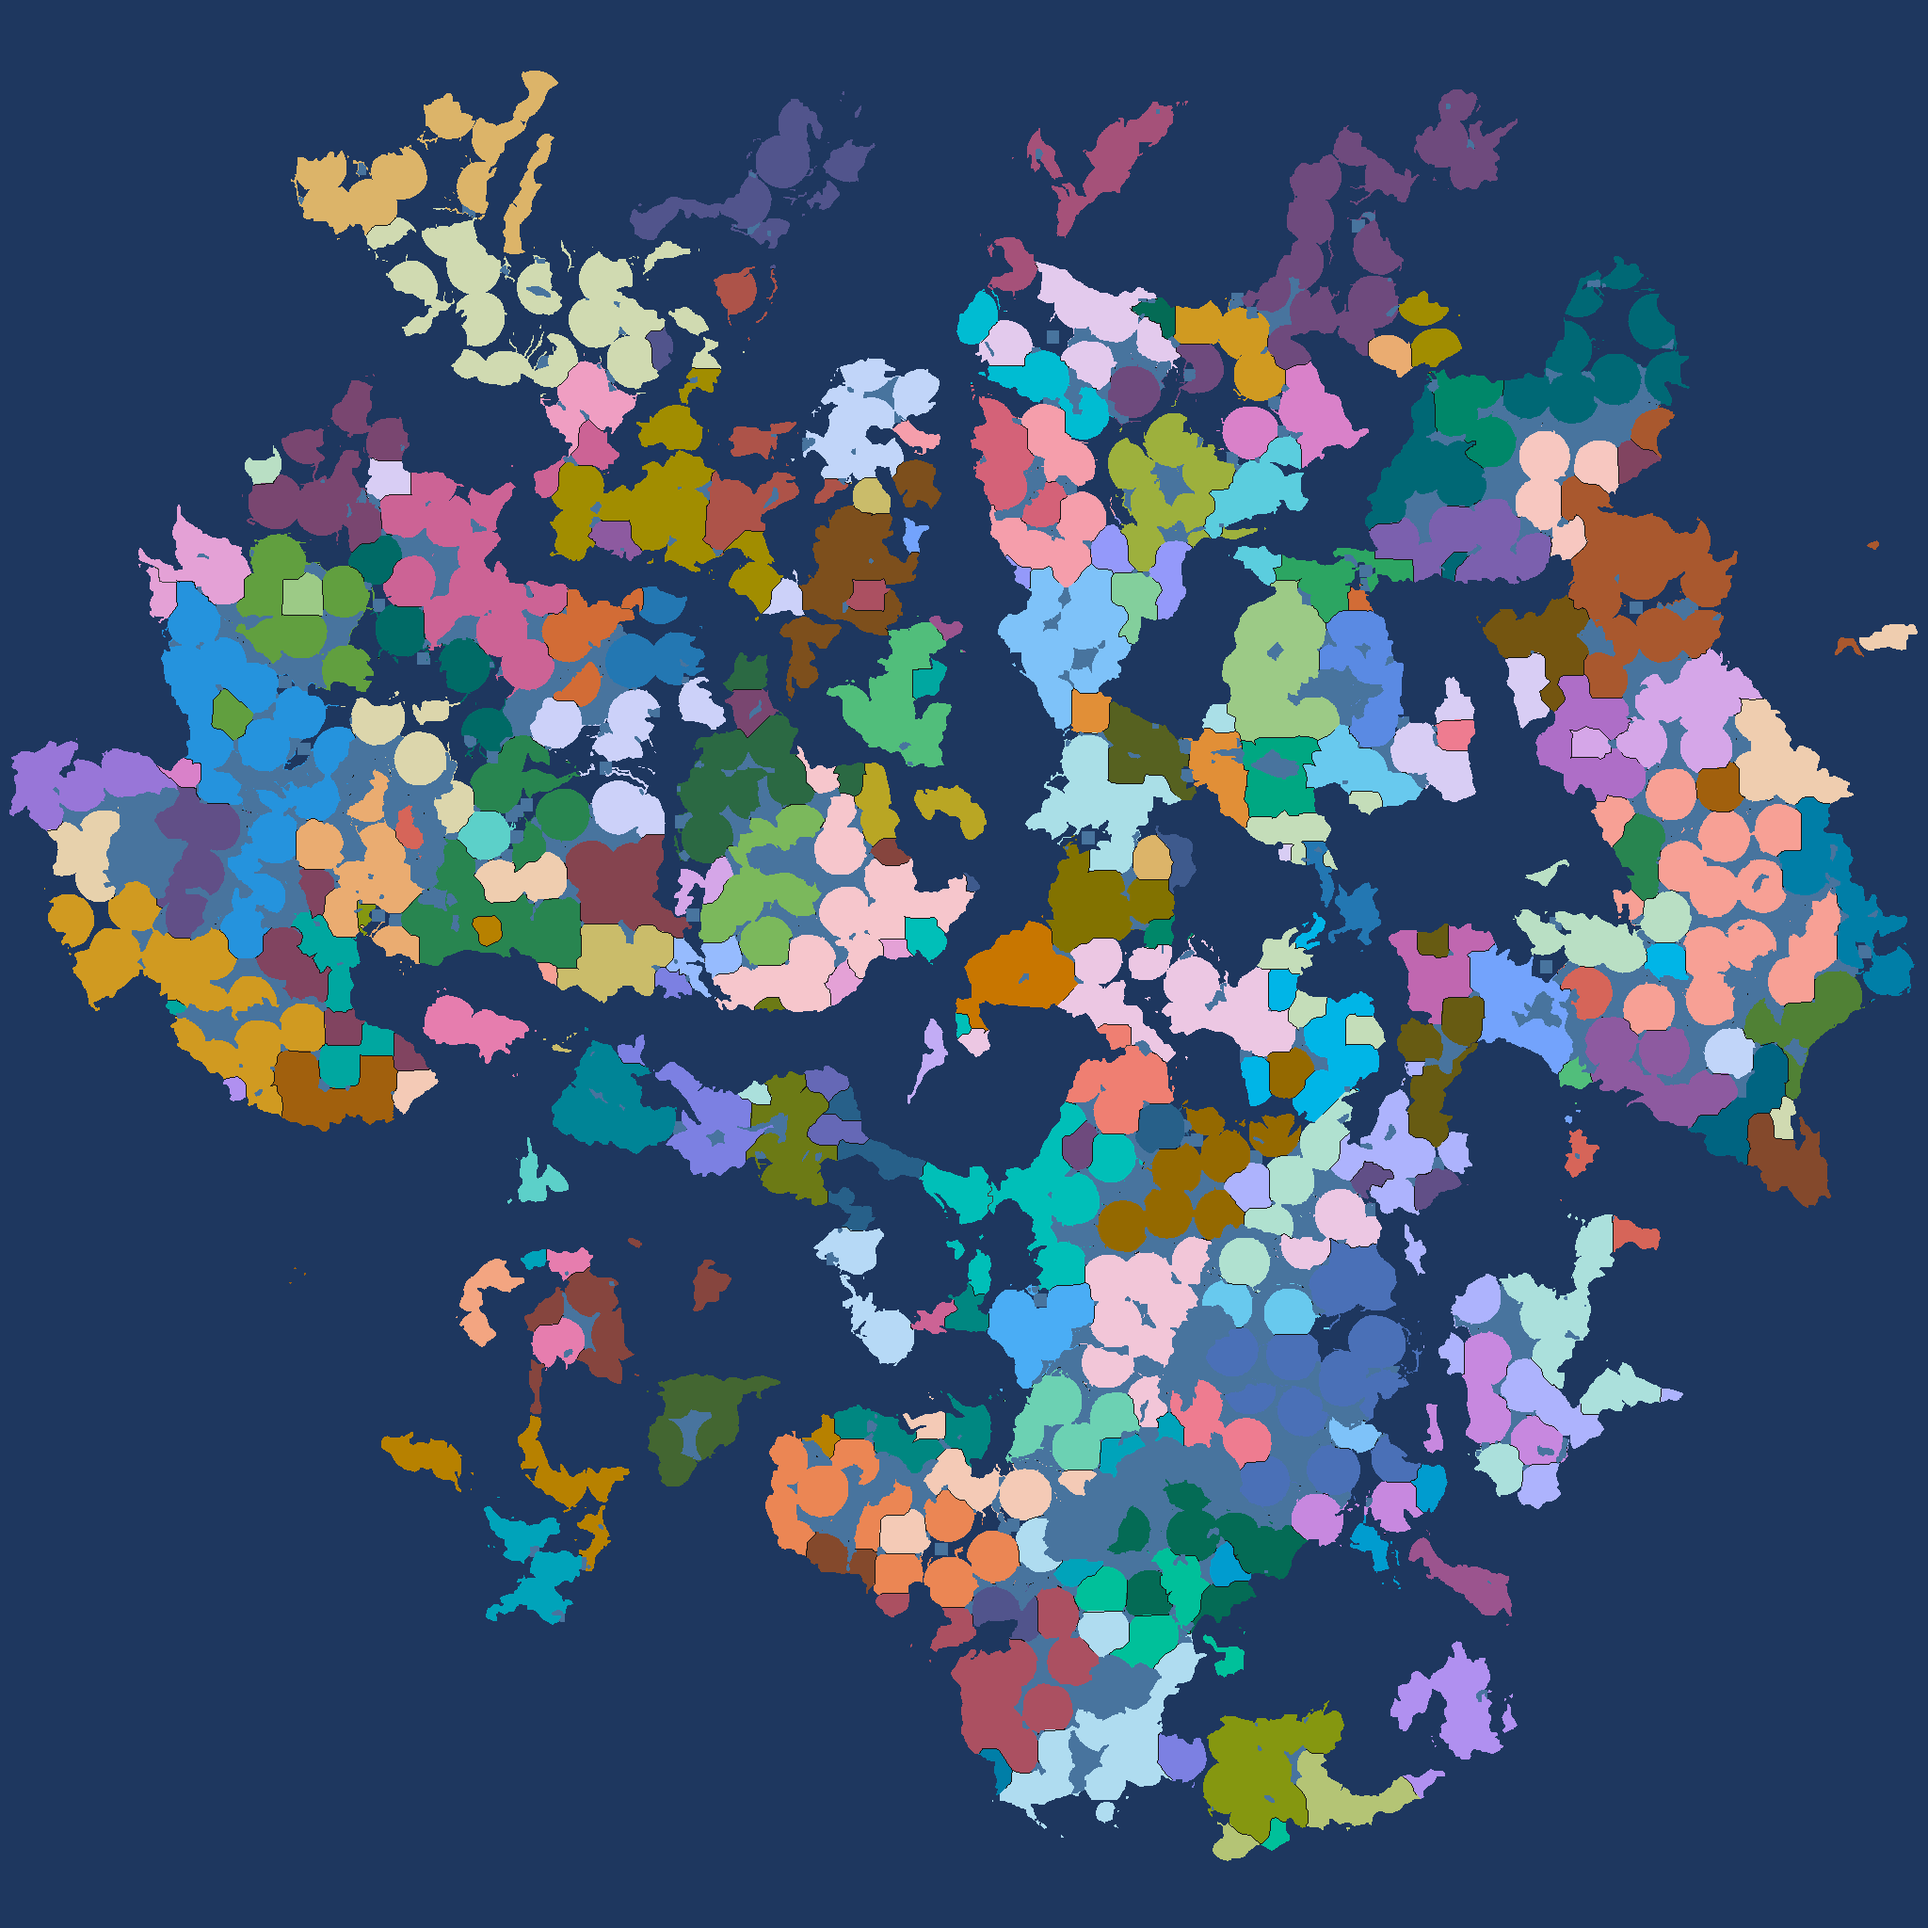
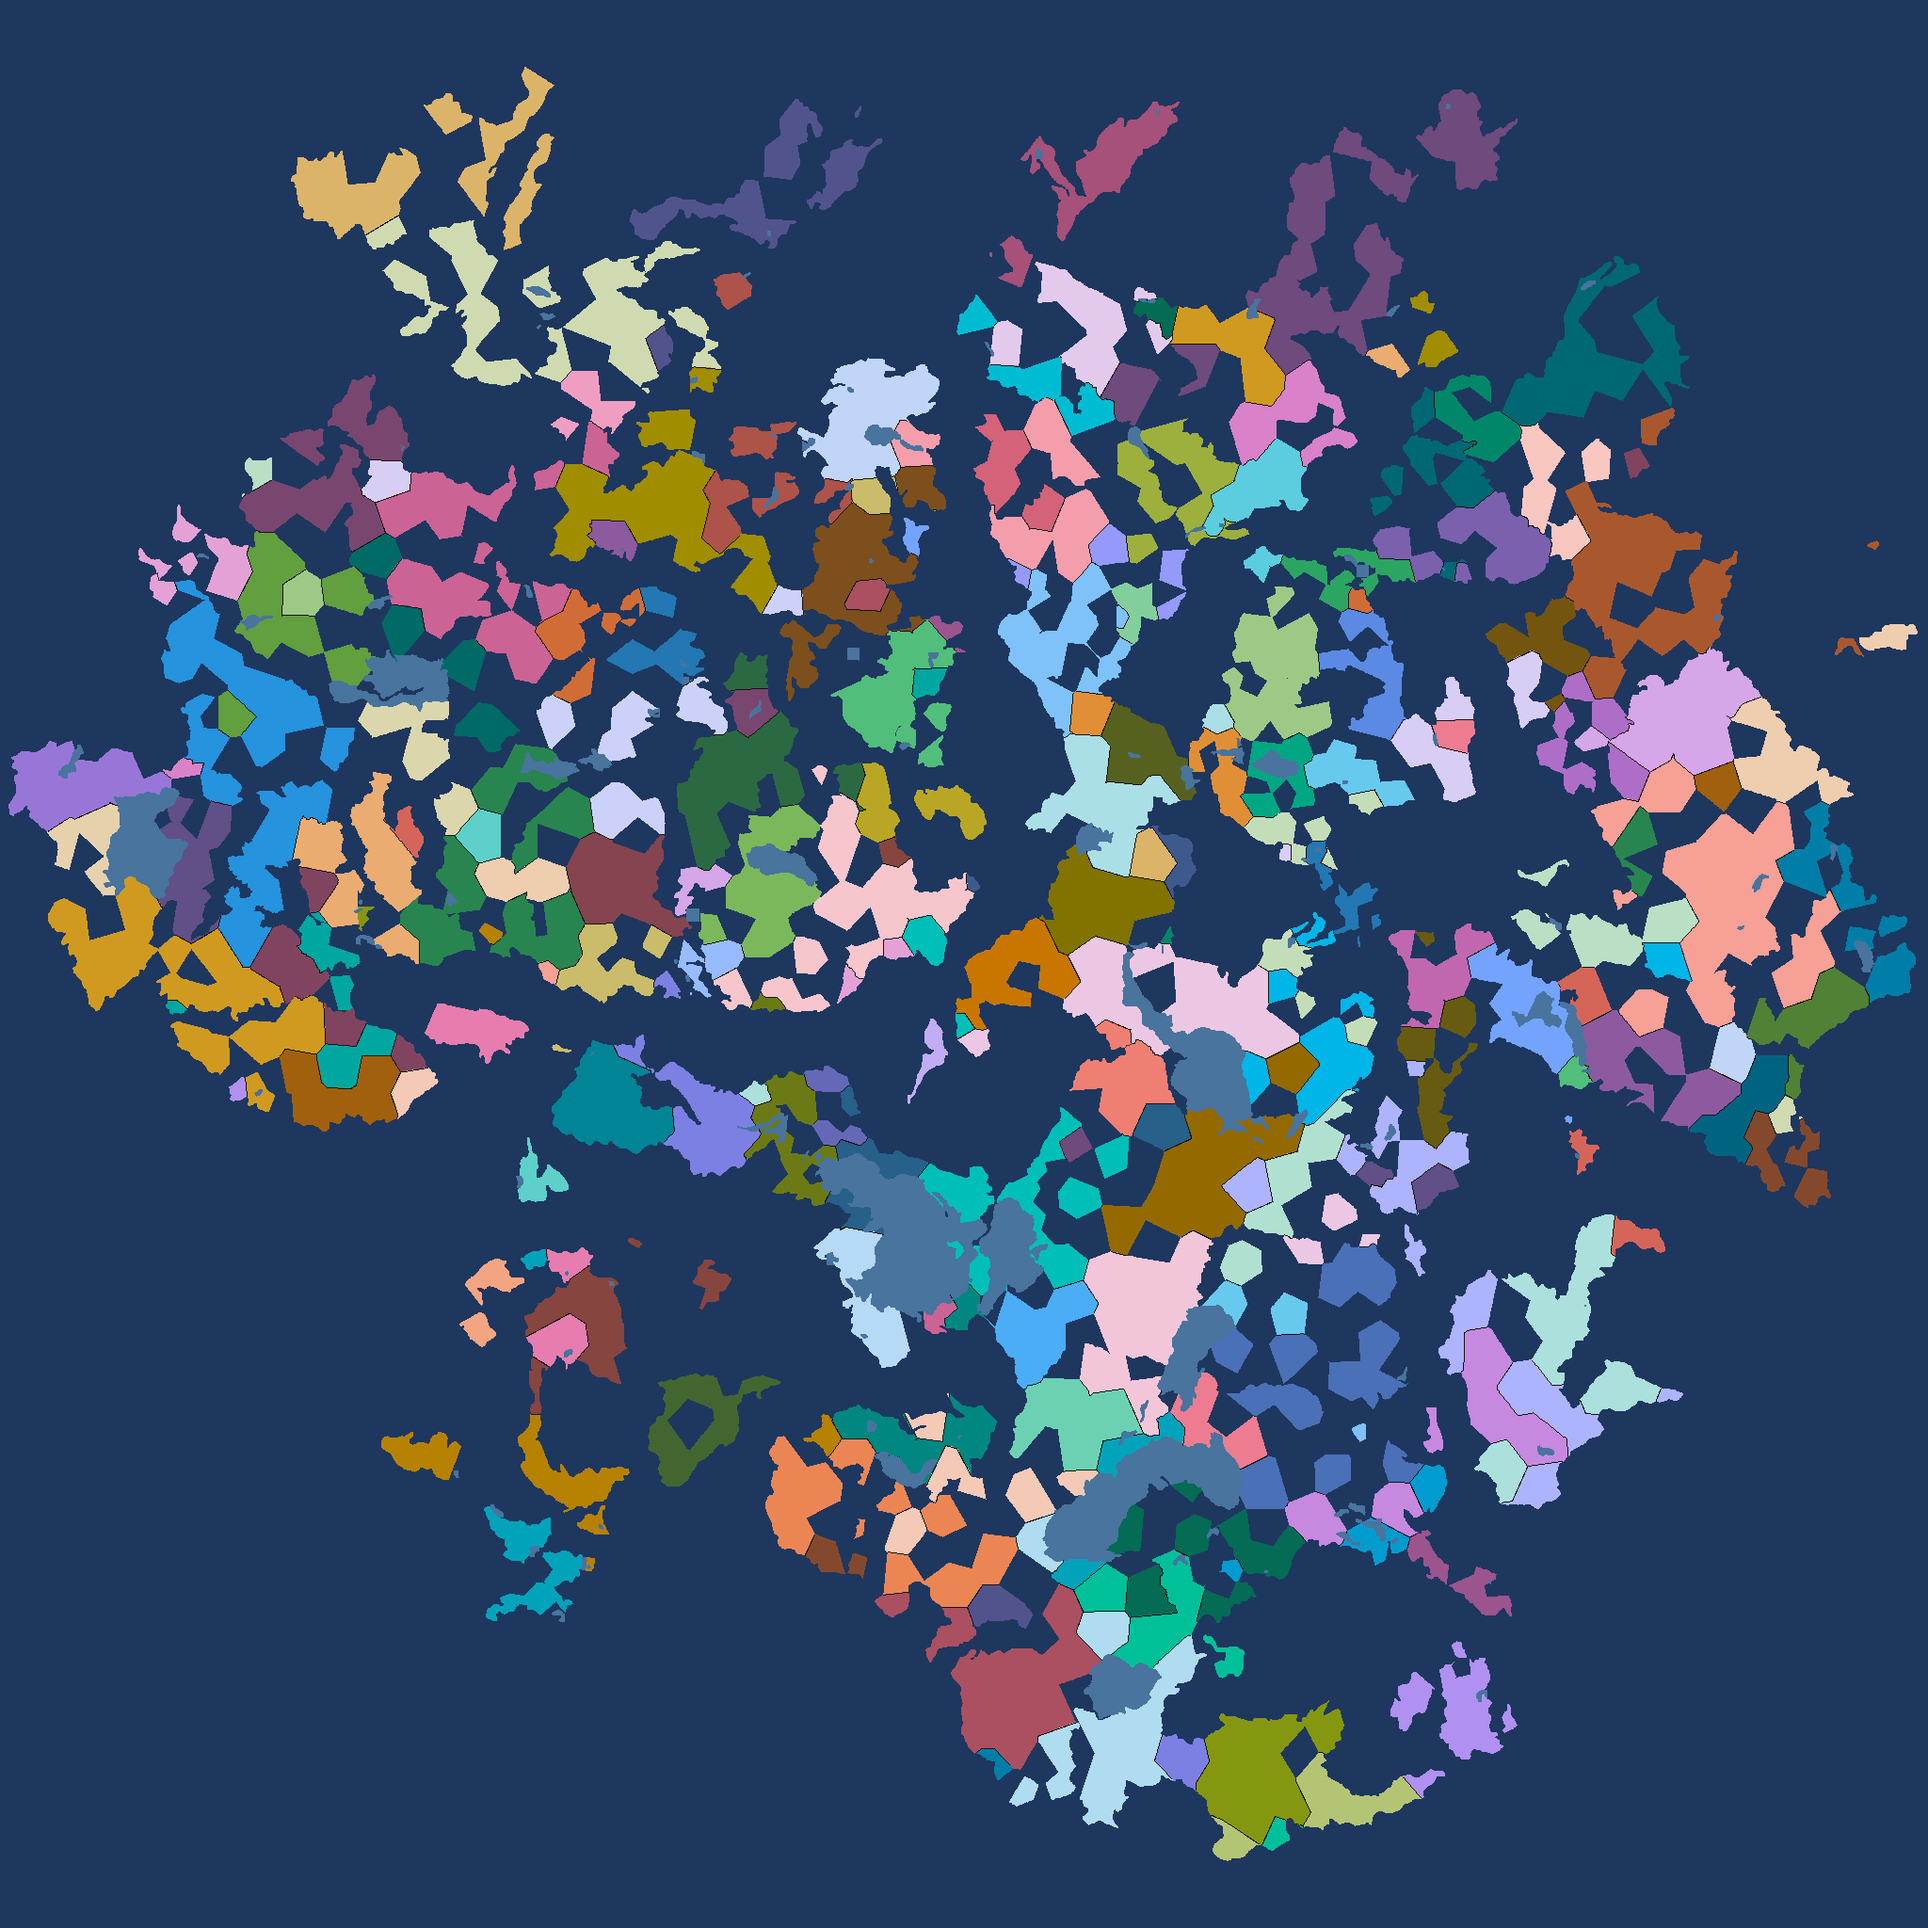
docs(worldgen): D3/D4 弧拓扑与 E1/E2 blob 预览按 refined 1693 城块/新分档参数重出——弧干跑 14.4 万弧、blob 三档重渲，图集与交接档同步（数据落地仍随 §五）

diff --git a/docs/项目/交接/世界模型整合-进度与交接.md b/docs/项目/交接/世界模型整合-进度与交接.md
@@ -9,7 +9,7 @@
 
 ## 快速恢复（新会话/压缩上下文后从这里开始）
 
-- **当前状态（V2 世界重生成链落地、图像验收轮）**：M1 统一契约已完成（对账 §四.1）；V2 世界重生成全链落地——**176 政权 / 1036 城 + 657 规模 0 填充 = 1693 城块**铺满陆地（城块图灰 0.005%、群岛跨水染色根治、圆块主张盘定稿 ×1.3，定稿模型与实测见 §五）。门禁：run_unit 68/68；run_all 36 通过 / 4 失败 / 6 悬置（4 个集成校准待办见 §五）。**下一步 = 创始人过验收图（`F:\VSCode\game-2\temp\v2_rebake\`，A-E 共 20 张）→ 按 §五剩余工作清单收口（I2b 重测 / 3 集成测试 / blob 重烤 / 属性回写）→ 收线合并 → M2 世界账面 tick**。**待创始人裁决**：城市档位阈值双口径统一（§四.1 末条）。
+- **当前状态（V2 世界重生成链落地、图像验收轮）**：M1 统一契约已完成（对账 §四.1）；V2 世界重生成全链落地——**176 政权 / 1036 城 + 657 规模 0 填充 = 1693 城块**铺满陆地（城块图灰 0.005%、群岛跨水染色根治、圆块主张盘定稿 ×1.3，定稿模型与实测见 §五）。门禁：run_unit 68/68；run_all 36 通过 / 4 失败 / 6 悬置（4 个集成校准待办见 §五）。**下一步 = 创始人过验收图（`F:\VSCode\game-2\temp\v2_rebake\`，A-E 共 19 张）→ 按 §五剩余工作清单收口（I2b 重测 / 3 集成测试 / blob 重烤 / 属性回写）→ 收线合并 → M2 世界账面 tick**。**待创始人裁决**：城市档位阈值双口径统一（§四.1 末条）。
 - **恢复方式**：创始人说「继续 世界模型整合」→读本档→当前批次 = V2 验收收口（过图后按 §五剩余工作清单；收线合并后进 M2）。开工先按 §三 建/复用 worktree（`.temp/world-model`，分支 `agent/world-model`；submodule 初始化与水陆真值三件复制见快速恢复段末注）。
 - **协作纪律（本轮对齐中创始人明确的方法论，后续会话必须遵守）**：
   1. **先对齐再落档再实施**——设计歧义逐轮提问对齐，不由 AI 单方面改文档"用一个 AI 说法覆盖另一个 AI 说法"；
@@ -154,12 +154,12 @@
 | [`fields_preview_resources_2048.png`](../../images/v2_rebake/fields_preview_resources_2048.png) | 资源丰度场叠图（FBM 空间自相关） |
 | [`fields_preview_attack_cost_2048.png`](../../images/v2_rebake/fields_preview_attack_cost_2048.png) | 进攻成本场（合并边权来源） |
 | [`culture_preview_2048.png`](../../images/v2_rebake/culture_preview_2048.png) | 文化场（源点 + 界线 + 过渡带） |
-| [`arcs_preview_2048.png`](../../images/v2_rebake/arcs_preview_2048.png) | 弧拓扑全图（共享弧边界重建） |
+| [`arcs_preview_2048.png`](../../images/v2_rebake/arcs_preview_2048.png) | 弧拓扑全图（共享弧边界重建，refined 1693 城块干跑重出；数据落地待 §五 `--write`） |
 | [`arcs_preview_birth_closeup.png`](../../images/v2_rebake/arcs_preview_birth_closeup.png) | 弧拓扑出生区特写 |
 | [`refine_preview_海岸段.png`](../../images/v2_rebake/refine_preview_海岸段.png) / [`refine_preview_内陆界.png`](../../images/v2_rebake/refine_preview_内陆界.png) | 城块边界细化前后（海岸/内陆） |
 | [`river_vectors_preview.png`](../../images/v2_rebake/river_vectors_preview.png) | 河流矢量（70 包注入源） |
 | [`roads_preview_2048.png`](../../images/v2_rebake/roads_preview_2048.png) | **道路网络 2185 条**（贴地形折线） |
-| [`blob_preview_2048.png`](../../images/v2_rebake/blob_preview_2048.png) / [`blob_closeup.png`](../../images/v2_rebake/blob_closeup.png) | blob 轮廓全图 + 特写（三档 s=0.2/0.5/0.9） |
+| [`blob_v2_preview_2048.png`](../../images/v2_rebake/blob_v2_preview_2048.png) / [`blob_v2_closeup.png`](../../images/v2_rebake/blob_v2_closeup.png) | blob 轮廓全图 + 特写（新分档参数重渲；70 包烘焙待 §五 `blob_v2_bake.py`） |
 
 ### 城块与填缝定稿模型（创始人 2026-09-26 定）
 
@@ -180,7 +180,7 @@
    - `test_l2_strategic_map`：「L2 单击 L1 地块下钻，ESC 返回」失败
    - `test_strategic_map_ui`：「L1 名牌 + 图例（政治/城市/交通/资源）」失败
    —— 方向：新数据的包结构/城块语义（荒地、176 政权图例）与旧断言不符，逐个跑单套件诊断（临时 .tscn 挂脚本即可，跑完删）。
-3. **blob 贴图重烤**（未做）：包内 blob_low/mid/high.png 仍是 R7 代；需 `blob_v2_generate.py`（产 output/blob_v2/blob_v2_geoms.npz，确认其输入依赖）→ `blob_v2_bake.py`（70 包逐包，--pack 参数）。
+3. **blob 贴图重烤**（半程）：`blob_v2_generate.py` 已跑（新分档参数，`blob_v2_geoms.npz` + 预览已入图集）；剩 `blob_v2_bake.py`（70 包逐包，--pack 参数）落盘包内 blob_low/mid/high.png。
 4. **待创始人确认**：①出生点关洋湾（settlement_city_427，2 城小国都城）是否定；②战略图实机观感验收出图（政治图/规模谱预览在 output/fields/，包内新数据可跑实机截图）。
 5. 道路跨包折线不一致 72 处（road_naturalize 警告「取先见」）——观感级，登记完善点。
 

diff --git a/docs/images/v2_rebake/README.md b/docs/images/v2_rebake/README.md
@@ -132,8 +132,8 @@
 
 ![arcs_preview_birth_closeup](arcs_preview_birth_closeup.png)
 
-- **看什么**：共享弧边界的政区拓扑（战略图描边/邻接的数据基座）。⚠ 本轮城块边界已变，这两张是**旧链产物**，待 `l3/arc_topology.py --write` 重跑后更新——观感验收以此两图现状为准先过其余，弧图等重跑后再看。
-- **生成**：`l3/arc_topology.py`。
+- **看什么**：共享弧边界的政区拓扑（战略图描边/邻接的数据基座）：政区 LUT 色填充 + 三级界线叠加（黑=国界、深灰=地区界、浅灰=自由城邦界），D4 为出生区 1:1 特写。预览已按本轮 refined 1693 城块重出（干跑，未写数据）；**数据落地（l3_city 换源 + political_mesh + L2 注入）随 §五收尾 `--write` 执行**。
+- **生成**：`l3/arc_topology.py`（干跑即出预览；`--write` 才写数据）。
 
 ---
 
@@ -141,12 +141,12 @@
 
 ### E1/E2 blob 城市轮廓
 
-![blob_preview_2048](blob_preview_2048.png)
+![blob_v2_preview_2048](blob_v2_preview_2048.png)
 
-![blob_closeup](blob_closeup.png)
+![blob_v2_closeup](blob_v2_closeup.png)
 
-- **看什么**：城市在战略图上的有机形状轮廓（三档规模 s=0.2/0.5/0.9 嵌套）。⚠ **当前仍是旧参数效果**——"几档差异太小"的修正（gamma 0.7→1.5 + 档带 g_max 抬升）已提交，但需 blob v2 几何链重烤后才可见，重烤后此两图替换。
-- **生成**：现行 `l1/blob_bake.py`；重烤走 `l1/blob_v2_generate.py` → `l1/blob_v2_bake.py`（分档参数在 submodule `blob_params.json` levels 段）。
+- **看什么**：城市在战略图上的有机形状轮廓（三档规模嵌套，分档差异按新参数放大后重渲）。E2 特写含 4 代表城；配套抽查图（贫瘠 10 城拼图/分形维自检）在 `tools/worldgen/output/blob_v2_barren_check.png`、`blob_v2_fractal_check.png`。**数据烘焙（70 包）随 §五收尾 `blob_v2_bake.py` 执行**。
+- **生成**：`l1/blob_v2_generate.py`（出预览与几何）；烘焙走 `l1/blob_v2_bake.py`（分档参数在 submodule `blob_params.json` levels 段）。
 
 ---
 
@@ -157,7 +157,7 @@
 | A 场预览 ×4 | 定稿 | 对照理解 B/C 的密度与色带来源 |
 | B 聚落城块 ×7 | **本轮新出** | B1 撒点疏密、B3 圆块拼合与群岛、B6/B7 边界自然化 |
 | C 政权 ×2 | **本轮重渲** | C1 文化色带 + 出生区小国群 + 无跨海飞地 |
-| D 线网 ×4 | 道路/河流定稿；**弧图旧，待重跑** | D2 道路走向合理性 |
-| E blob ×2 | **旧效果，参数已改待重烤** | 重烤后再验档差 |
+| D 线网 ×4 | 定稿；弧图按 refined 城块重出（数据落地待 §五） | D2 道路走向合理性、D3/D4 界线与特写 |
+| E blob ×2 | **新参数重渲** | 三档规模差异是否拉开（数据烘焙待 §五） |
 
 > 出生点确认：关洋湾（`settlement_city_427`，2 城小国都城）——在 C1 政治图出生区查看。
